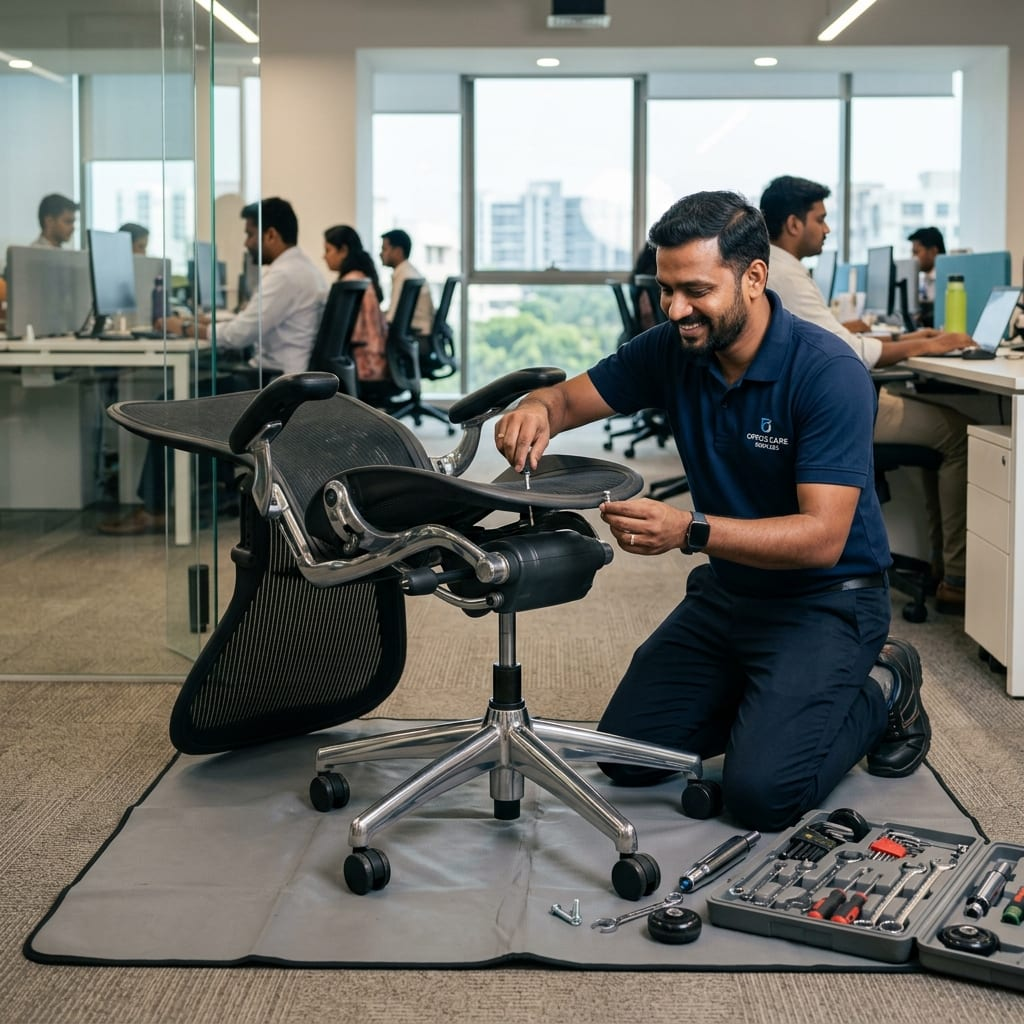
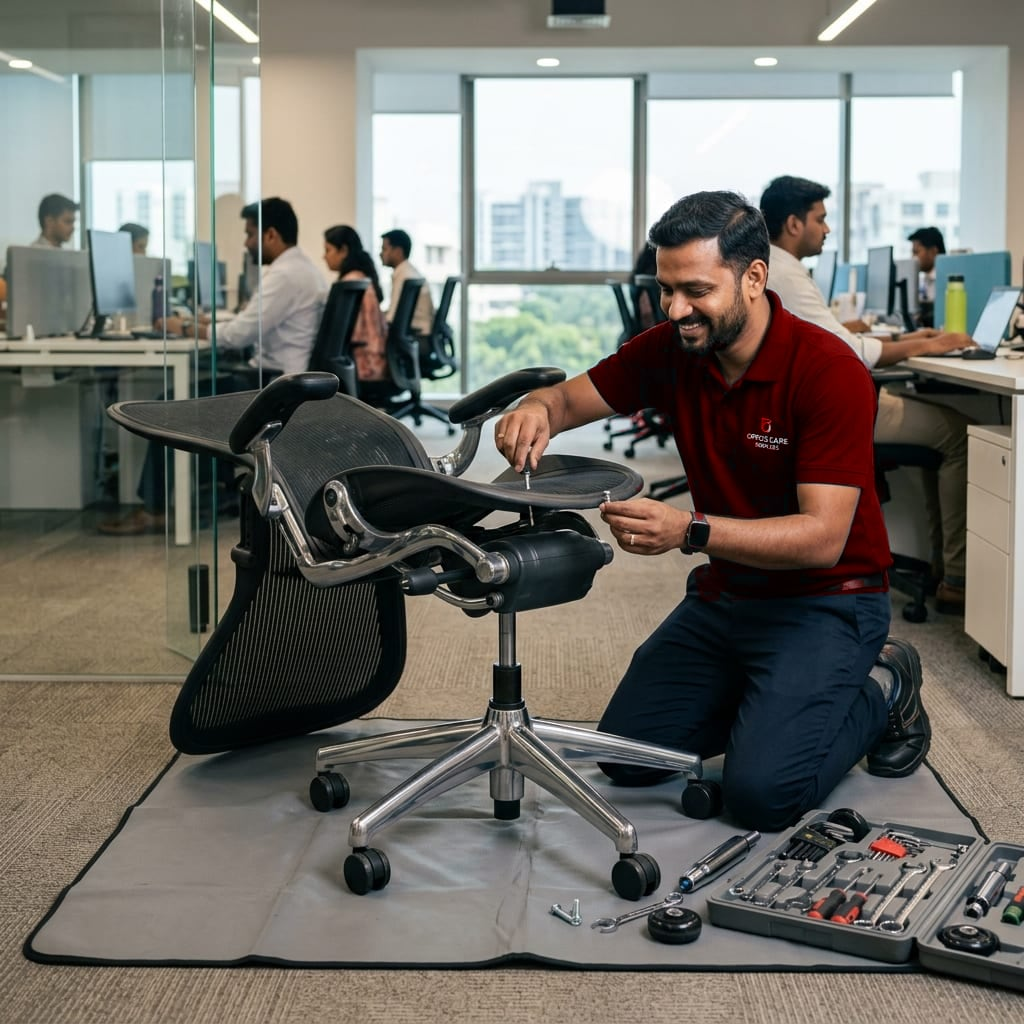
Update site content and imagery

Changed region(s): [[0.5625, 0.2812, 0.875, 0.5938]]

diff --git a/src/app/page.js b/src/app/page.js
@@ -5,6 +5,8 @@ import BeforeAfterSlider from "@/components/BeforeAfterSlider";
 import ChairGalleryMarquee from "@/components/ChairGalleryMarquee";
 import GoogleReviews from "@/components/GoogleReviews";
 import Photo, { SIZES } from "@/components/Photo";
+import PhotoGallery from "@/components/PhotoGallery";
+import { JOB_PHOTOS } from "@/lib/work";
 
 export const metadata = {
   title: "Bulk Office Chair Repair & Deep Cleaning in Chennai | Ayaan Enterprises",
@@ -205,6 +207,23 @@ export default function HomePage() {
           <div className="text-center" style={{ marginTop: "36px", textAlign: "center" }}>
             <Link className="btn btn-outline" href="/our-work">
               View All Completed Projects &rarr;
+            </Link>
+          </div>
+        </div>
+      </section>
+
+      {/* ===== OUR COMPLETED PROJECTS ===== */}
+      <section className="section" aria-labelledby="completed-projects-heading">
+        <div className="container">
+          <div className="section-head center" style={{ maxWidth: "680px", margin: "0 auto 36px" }}>
+            <span className="eyebrow">On-Site Job Photos</span>
+            <h2 id="completed-projects-heading">Our Completed Projects</h2>
+            <p>Real photos taken by our team at client sites: chairs serviced and ready for handover, and repairs in progress.</p>
+          </div>
+          <PhotoGallery photos={JOB_PHOTOS} title="Our Completed Projects" portrait />
+          <div style={{ marginTop: "32px", textAlign: "center" }}>
+            <Link className="btn btn-outline" href="/our-work">
+              See More of Our Work &rarr;
             </Link>
           </div>
         </div>

diff --git a/src/lib/furniture.js b/src/lib/furniture.js
@@ -212,10 +212,13 @@ export const CHAIRS = [
     images: [ARMCHAIR_PHOTO]
   },
   {
-    id: "wooden-chair",
+    id: "pantry-chair",
     seating: "visitor",
-    name: "Wooden Chair · Cafeteria & Breakout",
-    images: [{ src: "/images/chair-wooden.jpg", alt: "Solid wood chair with a slatted back" }]
+    name: "Pantry Chair · Office Pantry & Staff Dining",
+    images: [
+      { src: "/images/chair-pantry.jpg", alt: "Grey moulded shell pantry chair with a padded seat and black steel legs" },
+      { src: "/images/chair-pantry-stool.jpg", alt: "Grey high pantry stool with a spindle back, padded seat and footrest" }
+    ]
   },
   {
     id: "auditorium",
@@ -305,7 +308,7 @@ export const OFFICE_FURNITURE = [
     h1: "Executive Cabin Furniture for Modern Offices",
     intro:
       "Create a professional executive cabin with office furniture that brings together function, organisation, and a consistent design. Explore executive tables, storage furniture, and complementary pieces for management offices. Contact AYAAN ENTERPRISES to discuss your cabin furniture requirements.",
-    hero: { ...ARMCHAIR_PHOTO, contain: true },
+    hero: { ...ARMCHAIR_PHOTO },
     gallery: {
       type: "photos",
       heading: "Cabin furniture pieces",
@@ -313,7 +316,7 @@ export const OFFICE_FURNITURE = [
       photos: [
         BOSS_TABLE_PHOTO,
         { ...CABINET_PHOTO, position: "50% 55%" },
-        { ...ARMCHAIR_PHOTO, contain: true },
+        { ...ARMCHAIR_PHOTO },
         ...BOSS_TABLE_PHOTOS
       ]
     },

diff --git a/src/app/our-work/page.js b/src/app/our-work/page.js
@@ -2,31 +2,13 @@ import Link from "next/link";
 import BeforeAfterSlider from "@/components/BeforeAfterSlider";
 import PhotoGallery from "@/components/PhotoGallery";
 import Photo, { SIZES } from "@/components/Photo";
+import { JOB_PHOTOS } from "@/lib/work";
 
 export const metadata = {
   title: "Corporate Seating Audit Case Studies & Transformations | Ayaan Enterprises",
   description:
     "Review before and after transformations across corporate tech parks, BFSI campuses, and managed co-working hubs. Verified zero-downtime execution and 90-day parts warranty."
 };
-
-// Real photos taken by the Ayaan Enterprises team on jobs.
-const JOB_PHOTOS = [
-  {
-    src: "/images/work/job-serviced-mesh-chairs.jpg",
-    alt: "Six black mesh office chairs lined up in a client office after servicing",
-    position: "50% 62%"
-  },
-  {
-    src: "/images/work/job-fitting-star-base.jpg",
-    alt: "Ayaan Enterprises technician fitting a star base and castors to an office chair",
-    position: "50% 60%"
-  },
-  {
-    src: "/images/work/job-fitting-gas-lift.jpg",
-    alt: "Technician fitting a new gas lift to an office chair seat mechanism",
-    position: "50% 60%"
-  }
-];
 
 const PROJECTS = [
   {

diff --git a/src/lib/work.js b/src/lib/work.js
@@ -1,0 +1,18 @@
+// Real photos taken by the Ayaan Enterprises team on jobs.
+export const JOB_PHOTOS = [
+  {
+    src: "/images/work/job-serviced-mesh-chairs.jpg",
+    alt: "Six black mesh office chairs lined up in a client office after servicing",
+    position: "50% 62%"
+  },
+  {
+    src: "/images/work/job-fitting-star-base.jpg",
+    alt: "Ayaan Enterprises technician fitting a star base and castors to an office chair",
+    position: "50% 60%"
+  },
+  {
+    src: "/images/work/job-fitting-gas-lift.jpg",
+    alt: "Technician fitting a new gas lift to an office chair seat mechanism",
+    position: "50% 60%"
+  }
+];

diff --git a/src/lib/cart.js b/src/lib/cart.js
@@ -63,12 +63,13 @@ export const CATALOGUE = [
     features: ["Plush fabric seats", "Armrests with cup holder", "Fixed row installation"]
   },
   {
-    id: "wood",
-    name: "Solid Wood Chair",
-    cat: "Wooden",
-    img: "/images/chair-wooden.jpg",
+    id: "pantry",
+    name: "Pantry Chair",
+    cat: "Pantry",
+    img: "/images/chair-pantry.jpg",
+    white: true,
     price: null,
-    features: ["Solid hardwood", "Cafeteria & reception", "Durable polish finish"]
+    features: ["Moulded shell with padded seat", "Office pantry & staff dining", "Sturdy powder-coated steel legs"]
   }
 ];
 

diff --git a/src/app/shop/page.js b/src/app/shop/page.js
@@ -6,7 +6,7 @@ import { useRouter } from "next/navigation";
 import { waLink } from "@/lib/config";
 import { getStoredCart, saveStoredCart, getCartSummary, CATALOGUE } from "@/lib/cart";
 
-const CATEGORIES = ["All", "Ergonomic", "Executive", "Mesh", "Visitor & waiting", "Auditorium", "Wooden"];
+const CATEGORIES = ["All", "Ergonomic", "Executive", "Mesh", "Visitor & waiting", "Auditorium", "Pantry"];
 
 export default function ShopPage() {
   const [filter, setFilter] = useState("All");

diff --git a/src/components/ChairGalleryMarquee.js b/src/components/ChairGalleryMarquee.js
@@ -67,10 +67,11 @@ const CHAIR_TYPES = [
     tag: "Ergonomic"
   },
   {
-    name: "Cafeteria & Breakout",
+    name: "Pantry & Staff Dining",
     cat: "Dining & Pantry",
-    image: "/images/chair-wooden.jpg",
-    specs: "Solid Hardwood Frame · Scratch-Resistant",
+    image: "/images/chair-pantry.jpg",
+    contain: true,
+    specs: "Moulded Shell · Padded Seat · Steel Legs",
     tag: "Breakout"
   }
 ];

diff --git a/src/lib/config.js b/src/lib/config.js
@@ -14,7 +14,7 @@ export const SITE = {
     lng: 80.2166465,
     listing: "Innodesk Chennai"
   },
-  hours: "Mon - Sat: 8:30 AM - 7:30 PM",
+  hours: "Mon - Sat: 10:00 AM - 7:00 PM",
   city: "Chennai",
   serviceServing: "Serving Clients All Over Chennai",
   stats: {

diff --git a/public/images/CREDITS.md b/public/images/CREDITS.md
@@ -36,7 +36,8 @@ Each was downloaded and cropped to its slot size. To view or replace one, open `
 | hero-executive.jpg | High-back leatherette executive chair (white background) | Home hero, Home/Products cards, Seating |
 | chairs-waiting.jpg | Steel beam waiting-area seating | Home/Products visitor card, Bulk (hospitals) |
 | chairs-auditorium.jpg | Red auditorium seating | Bulk (schools & colleges) |
-| chair-wooden.jpg | Solid wood chair | Seating |
+| chair-pantry.jpg | Grey shell pantry chair with black steel legs, background removed onto white (replaced the solid wood chair) | Home gallery, Shop, Office Seating |
+| chair-pantry-stool.jpg | Grey high pantry stool | Office Seating (pantry chair gallery) |
 
 Home hero also uses Pexels **12269763** (hero-mesh.jpg, mesh chairs) and **31236091** (hero-desk.jpg, ergonomic chair at desk).
 ## Bulk / Corporate page (Pexels)
@@ -79,3 +80,9 @@ Home hero also uses Pexels **12269763** (hero-mesh.jpg, mesh chairs) and **31236
 | work-6-after.jpg | 8459996 | Bright waiting room with blue upholstered chairs |
 
 | cleaning-extraction.jpg | 5233285 | Hot-water extraction nozzle cleaning a fabric seat (Chair Cleaning page) |
+
+## Brand-colour edits
+
+The technicians' navy shirts in hero-carpenter, page-bulk, page-cleaning, page-repair, repair-onsite, service-bulk,
+service-cleaning and service-repair were recoloured to brand maroon (#800000). Faces, poses and backgrounds are unchanged.
+work/chair-bases-before.png: the AI-generator sparkle mark in the bottom-right corner was removed.
